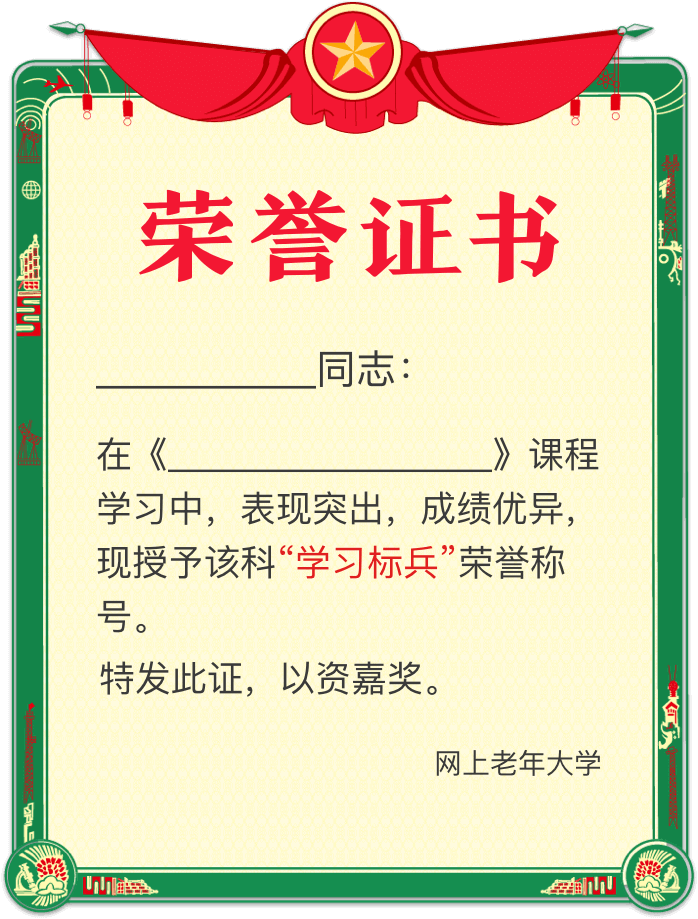
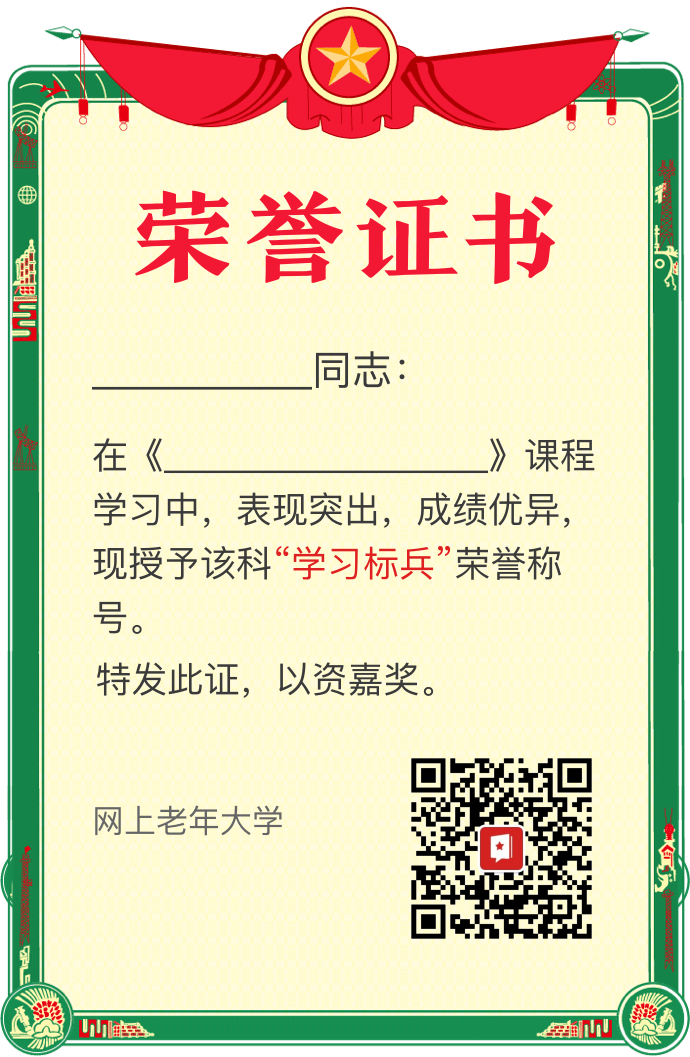
学习证书更新

Changed region(s): [[0.1217, 0.1828, 0.8826, 0.914], [0.0, 0.0, 1.0, 1.0], [0.1826, 0.1828, 0.3348, 0.3047]]

diff --git a/page/index/pages/certificate/certificate.js b/page/index/pages/certificate/certificate.js
@@ -20,24 +20,25 @@ Page({
     this.context = wx.createCanvasContext("myCanvas", this)
     let r = wx.getSystemInfoSync().windowWidth / 750
     // 背景图
-    this.context.drawImage("../../images/certificate.png", 0, 0, 690 * r, 912 * r)
+    this.context.drawImage("../../images/certificate.png", 0, 0, 690 * r, 1057 * r)
     // 文字
     this.context.fillStyle = '#3A3A3A'
     this.context.font = `20px sans-serif`
     this.context.setTextBaseline("top")
-    this.context.fillText(userInfo.nickname, 107 * r + (200 * r - this.context.measureText(userInfo.nickname).width) / 2, 340 * r, 200 * r)
+    this.context.fillText(userInfo.nickname, 107 * r + (200 * r - this.context.measureText(userInfo.nickname).width) / 2, 345 * r, 200 * r)
     this.context.font = `18px sans-serif`
     if(this.context.measureText(course).width < 170) {
-      this.context.fillText(course, 180 * r + (310 * r - this.context.measureText(course).width) / 2, 425 * r, 310 * r)
+      this.context.fillText(course, 180 * r + (310 * r - this.context.measureText(course).width) / 2, 430 * r, 310 * r)
     } else if (this.context.measureText(course).width > 170 && this.context.measureText(course).width < 220) {
-      this.context.fillText(course, 180 * r + (348 * r - this.context.measureText(course).width) / 2, 425 * r, 310 * r) 
+      this.context.fillText(course, 180 * r + (348 * r - this.context.measureText(course).width) / 2, 430 * r, 310 * r) 
     } else if(this.context.measureText(course).width > 220 && this.context.measureText(course).width < 300){
-      this.context.fillText(course, 180 * r + (522 * r - this.context.measureText(course).width) / 2, 425 * r, 310 * r)
+      this.context.fillText(course, 180 * r + (522 * r - this.context.measureText(course).width) / 2, 430 * r, 310 * r)
     } else {
-      this.context.fillText(course, 180 * r + (730 * r - this.context.measureText(course).width) / 2, 425 * r, 310 * r)
+      this.context.fillText(course, 180 * r + (730 * r - this.context.measureText(course).width) / 2, 430 * r, 310 * r)
     }
-    this.context.font = `14px sans-serif`
-    this.context.fillText(app.util.dateUnit(), 420 * r, 780 * r)
+    this.context.font = `15px sans-serif`
+    this.context.setFillStyle('#666666')
+    this.context.fillText(app.util.dateUnit(), 92 * r, 856 * r)
     // this.context.setTextAlign("right")
     let that = this
     this.context.draw(true, () => {
@@ -45,9 +46,9 @@ Page({
         x: 0,
         y: 0,
         width: 690 * r,
-        height: 912 * r,
+        height: 1057 * r,
         destWidth: 690,
-        destHeight: 912,
+        destHeight: 1057,
         canvasId: "myCanvas",
         success(res) {
           that.setData({

diff --git a/store.js b/store.js
@@ -4,7 +4,7 @@
  * @LastEditTime: 2020-08-11 18:00:20
  */
 import Store from "wxministore";
-let env = "develop";
+let env = "production";
 let imgHost;
 let activityUrl;
 let API_URL;
